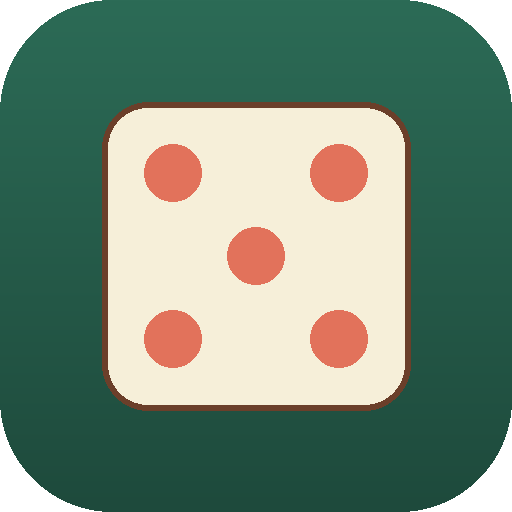
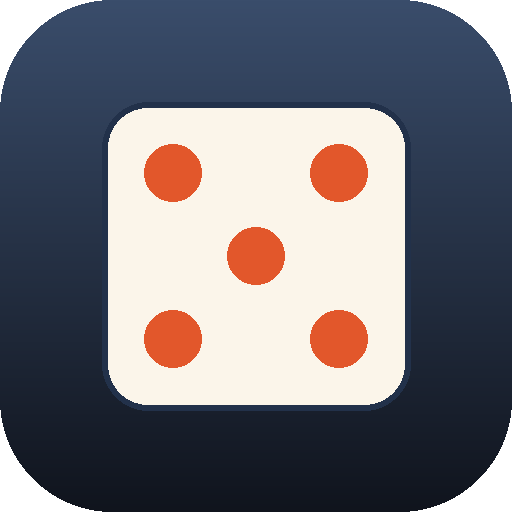
Add files via upload

diff --git a/index.html b/index.html
@@ -4,7 +4,7 @@
 <meta charset="UTF-8">
 <meta name="viewport" content="width=device-width, initial-scale=1, viewport-fit=cover, maximum-scale=1">
 <title>ערב משחקים משפחתי</title>
-<meta name="theme-color" content="#2c6b56">
+<meta name="theme-color" content="#22314a">
 <meta name="mobile-web-app-capable" content="yes">
 <meta name="apple-mobile-web-app-capable" content="yes">
 <meta name="apple-mobile-web-app-status-bar-style" content="black-translucent">
@@ -14,46 +14,53 @@
 <link rel="icon" href="icon-192.png">
 <link rel="preconnect" href="https://fonts.googleapis.com">
 <link rel="preconnect" href="https://fonts.gstatic.com" crossorigin>
-<link href="https://fonts.googleapis.com/css2?family=Suez+One&family=Assistant:wght@400;600;700;800&display=swap" rel="stylesheet">
+<link href="https://fonts.googleapis.com/css2?family=Suez+One&family=Rubik:wght@400;500;600;700;800&display=swap" rel="stylesheet">
 <style>
   :root{
-    --bg:#2c6b56;
-    --bg-deep:#1e4a3c;
-    --surface:#f6efd9;
-    --surface-soft:#efe3c0;
-    --ink:#22201a;
-    --ink-soft:#5c5744;
-    --gold:#d4a73e;
-    --coral:#e2725b;
-    --wood:#6b3f2a;
-    --line:rgba(27,27,20,.16);
-    --shadow:rgba(12,26,21,.35);
+    --bg:#fbf5ea;
+    --bg-panel:#ffffff;
+    --bg-soft:#f2e8d6;
+    --ink:#242838;
+    --ink-soft:#5c6070;
+    --navy:#22314a;
+    --navy-soft:#3a4d6b;
+    --coral:#e2572b;
+    --gold:#d9a441;
+    --ok-bg:#cfead6; --ok-ink:#1f5132;
+    --bad-bg:#f6d2c8; --bad-ink:#7a2415;
+    --line:rgba(34,49,74,.14);
+    --shadow:rgba(34,49,74,.16);
     --tabbar-h:64px;
   }
   @media (prefers-color-scheme: dark){
     :root:not([data-theme="light"]){
-      --bg:#123128; --bg-deep:#0b1e19;
-      --surface:#2b2318; --surface-soft:#352c1d;
-      --ink:#f3ecd8; --ink-soft:#cabf9d;
-      --gold:#e6bd5a; --coral:#ec8b72; --wood:#b0785a;
-      --line:rgba(243,236,216,.18); --shadow:rgba(0,0,0,.55);
+      --bg:#171b26; --bg-panel:#222838; --bg-soft:#2b3244;
+      --ink:#f2ede1; --ink-soft:#b7bdcd;
+      --navy:#10141d; --navy-soft:#242e42;
+      --coral:#f0805f; --gold:#e8c05f;
+      --ok-bg:#204431; --ok-ink:#bfe9cd;
+      --bad-bg:#4a2620; --bad-ink:#f3c3b6;
+      --line:rgba(242,237,225,.14); --shadow:rgba(0,0,0,.5);
     }
   }
   :root[data-theme="dark"]{
-    --bg:#123128; --bg-deep:#0b1e19;
-    --surface:#2b2318; --surface-soft:#352c1d;
-    --ink:#f3ecd8; --ink-soft:#cabf9d;
-    --gold:#e6bd5a; --coral:#ec8b72; --wood:#b0785a;
-    --line:rgba(243,236,216,.18); --shadow:rgba(0,0,0,.55);
+    --bg:#171b26; --bg-panel:#222838; --bg-soft:#2b3244;
+    --ink:#f2ede1; --ink-soft:#b7bdcd;
+    --navy:#10141d; --navy-soft:#242e42;
+    --coral:#f0805f; --gold:#e8c05f;
+    --ok-bg:#204431; --ok-ink:#bfe9cd;
+    --bad-bg:#4a2620; --bad-ink:#f3c3b6;
+    --line:rgba(242,237,225,.14); --shadow:rgba(0,0,0,.5);
   }
   *{box-sizing:border-box;}
   html,body{height:100%;}
   html{scroll-padding-top:env(safe-area-inset-top,0px);}
   body{
     margin:0;
-    font-family:'Assistant',-apple-system,'Segoe UI',sans-serif;
+    font-family:'Rubik',-apple-system,'Segoe UI',sans-serif;
+    font-size:16px;
     color:var(--ink);
-    background:radial-gradient(1200px 800px at 50% -10%, var(--bg) 0%, var(--bg-deep) 75%);
+    background:var(--bg);
     height:100dvh;
     display:flex;
     flex-direction:column;
@@ -65,9 +72,10 @@
     display:flex;
     overflow-x:auto;
     -webkit-overflow-scrolling:touch;
-    gap:4px;
-    padding:calc(env(safe-area-inset-top,0px) + 10px) 10px 8px;
-    background:var(--bg-deep);
+    gap:6px;
+    padding:calc(env(safe-area-inset-top,0px) + 12px) 12px 10px;
+    background:var(--navy);
+    box-shadow:0 4px 14px rgba(0,0,0,.18);
     flex:0 0 auto;
     scrollbar-width:none;
   }
@@ -77,12 +85,12 @@
     display:flex;
     flex-direction:column;
     align-items:center;
-    gap:2px;
-    padding:7px 12px;
-    border-radius:12px;
-    color:var(--surface);
-    opacity:.65;
-    font-size:11.5px;
+    gap:3px;
+    padding:8px 14px;
+    border-radius:14px;
+    color:#eef1f6;
+    opacity:.72;
+    font-size:13px;
     font-weight:700;
     cursor:pointer;
     border:none;
@@ -90,12 +98,13 @@
     white-space:nowrap;
     font-family:inherit;
   }
-  .tab .ic{font-size:20px; line-height:1;}
+  .tab .ic{font-size:21px; line-height:1;}
   .tab.active{
     opacity:1;
-    background:rgba(246,239,217,.14);
+    background:var(--coral);
+    color:#fff;
   }
-  .tab.active .ic{transform:scale(1.08);}
+  .tab.active .ic{transform:scale(1.06);}
 
   /* ---------- Screens ---------- */
   #stage{
@@ -110,7 +119,7 @@
     max-width:640px;
     margin:0 auto;
     width:100%;
-    padding:18px 18px 10px;
+    padding:22px 18px 10px;
     flex:1;
     display:flex;
     flex-direction:column;
@@ -120,105 +129,106 @@
 
   h2.title{
     font-family:'Suez One',serif;
-    font-size:clamp(24px,6.5vw,32px);
-    color:var(--surface);
+    font-size:clamp(26px,7vw,36px);
+    color:var(--navy);
     text-align:center;
-    margin:6px 0 4px;
-    text-shadow:0 2px 0 rgba(0,0,0,.2);
+    margin:6px 0 6px;
   }
   p.sub{
     text-align:center;
-    color:var(--surface);
-    opacity:.85;
-    font-size:14px;
-    margin:0 0 16px;
+    color:var(--ink-soft);
+    font-size:16px;
+    line-height:1.5;
+    margin:0 0 18px;
   }
 
   .panel{
-    background:var(--surface);
+    background:var(--bg-panel);
     border-radius:20px;
-    padding:20px 18px 24px;
-    box-shadow:0 12px 28px var(--shadow);
+    padding:24px 20px 26px;
+    box-shadow:0 10px 26px var(--shadow);
     border:1px solid var(--line);
   }
 
   .btn{
     font-family:inherit;
     font-weight:700;
-    font-size:15px;
+    font-size:16px;
     border:none;
     border-radius:12px;
-    padding:12px 18px;
+    padding:13px 20px;
     cursor:pointer;
-    transition:transform .1s ease, filter .15s ease;
+    transition:transform .1s ease, filter .15s ease, box-shadow .15s ease;
   }
   .btn:active{transform:scale(.96);}
-  .btn.primary{background:var(--gold); color:#2b2318;}
-  .btn.coral{background:var(--coral); color:#2b1410;}
-  .btn.wood{background:var(--wood); color:#fbf3e3;}
-  .btn.outline{background:transparent; border:1.5px solid var(--line); color:var(--ink);}
-  .btn:hover{filter:brightness(1.06);}
-  .btn:disabled{opacity:.45; cursor:default;}
+  .btn.primary{background:var(--coral); color:#fff; box-shadow:0 6px 14px rgba(226,87,43,.35);}
+  .btn.coral{background:var(--coral); color:#fff; box-shadow:0 6px 14px rgba(226,87,43,.35);}
+  .btn.wood{background:var(--navy); color:#fff; box-shadow:0 6px 14px rgba(34,49,74,.35);}
+  .btn.outline{background:transparent; border:1.5px solid var(--navy); color:var(--navy);}
+  .btn:hover{filter:brightness(1.07);}
+  .btn:disabled{opacity:.4; cursor:default; box-shadow:none;}
   .btn.block{width:100%;}
-  .btn.lg{font-size:17px; padding:15px 20px;}
+  .btn.lg{font-size:18px; padding:16px 22px;}
 
-  .chiprow{display:flex; flex-wrap:wrap; gap:8px; justify-content:center; margin-bottom:14px;}
+  .chiprow{display:flex; flex-wrap:wrap; gap:9px; justify-content:center; margin-bottom:16px;}
   .chip{
-    padding:8px 14px; border-radius:999px; border:1.5px solid var(--line);
-    background:var(--surface-soft); color:var(--ink); font-size:13.5px; font-weight:600; cursor:pointer;
+    padding:9px 16px; border-radius:999px; border:1.5px solid var(--line);
+    background:var(--bg-soft); color:var(--ink); font-size:14.5px; font-weight:600; cursor:pointer;
   }
   .chip.selected{background:var(--gold); border-color:var(--gold); color:#2b2318;}
 
   .big-word{
     font-family:'Suez One',serif;
-    font-size:clamp(28px,9vw,46px);
+    font-size:clamp(30px,9.5vw,50px);
     text-align:center;
-    margin:10px 0;
+    margin:12px 0;
     min-height:1.3em;
     color:var(--ink);
+    line-height:1.25;
   }
   .timer{
-    text-align:center; font-size:36px; font-weight:800; color:var(--coral);
-    margin-bottom:4px; font-variant-numeric:tabular-nums;
+    text-align:center; font-size:40px; font-weight:800; color:var(--coral);
+    margin-bottom:6px; font-variant-numeric:tabular-nums;
   }
-  .scoreline{text-align:center; color:var(--ink-soft); font-size:14px; margin-bottom:8px;}
-  .row-actions{display:flex; gap:12px; justify-content:center; margin-top:16px; flex-wrap:wrap;}
+  .scoreline{text-align:center; color:var(--ink-soft); font-size:15px; font-weight:600; margin-bottom:10px;}
+  .row-actions{display:flex; gap:12px; justify-content:center; margin-top:18px; flex-wrap:wrap;}
   .center{text-align:center;}
 
   .qopt{
-    display:block; width:100%; text-align:right; background:var(--surface-soft);
-    border:1.5px solid var(--line); border-radius:12px; padding:13px 16px; margin-bottom:10px;
-    font-size:15.5px; font-family:inherit; color:var(--ink); cursor:pointer;
+    display:block; width:100%; text-align:right; background:var(--bg-soft);
+    border:1.5px solid var(--line); border-radius:12px; padding:14px 16px; margin-bottom:10px;
+    font-size:16.5px; font-weight:600; font-family:inherit; color:var(--ink); cursor:pointer;
   }
-  .qopt.correct{background:#8bbf8f; border-color:#8bbf8f; color:#12271a;}
-  .qopt.wrong{background:#e79a8d; border-color:#e79a8d; color:#3a130b;}
+  .qopt.correct{background:var(--ok-bg); border-color:var(--ok-bg); color:var(--ok-ink);}
+  .qopt.wrong{background:var(--bad-bg); border-color:var(--bad-bg); color:var(--bad-ink);}
   .qopt:disabled{cursor:default;}
 
   .cats-list{
-    display:grid; grid-template-columns:1fr 1fr; gap:8px 16px; margin:14px 0 6px;
+    display:grid; grid-template-columns:1fr 1fr; gap:10px 16px; margin:16px 0 6px;
     list-style:none; padding:0;
   }
-  .cats-list li{background:var(--surface-soft); border-radius:10px; padding:9px 12px; font-size:14.5px; text-align:center;}
+  .cats-list li{background:var(--bg-soft); border-radius:10px; padding:11px 12px; font-size:15.5px; font-weight:600; text-align:center;}
 
   .letter-badge{
-    width:80px; height:80px; border-radius:50%; background:var(--coral); color:#2b1410;
-    font-family:'Suez One',serif; font-size:38px; display:flex; align-items:center; justify-content:center;
-    margin:0 auto 10px; box-shadow:0 6px 14px var(--shadow);
+    width:86px; height:86px; border-radius:50%; background:var(--coral); color:#fff;
+    font-family:'Suez One',serif; font-size:42px; display:flex; align-items:center; justify-content:center;
+    margin:0 auto 12px; box-shadow:0 8px 18px rgba(226,87,43,.4);
   }
 
   .field{
-    width:100%; padding:11px 13px; border-radius:10px; border:1.5px solid var(--line);
-    font-size:14.5px; font-family:inherit; margin-bottom:10px; background:var(--surface-soft); color:var(--ink);
+    width:100%; padding:13px 14px; border-radius:10px; border:1.5px solid var(--line);
+    font-size:15.5px; font-family:inherit; margin-bottom:12px; background:var(--bg-soft); color:var(--ink);
   }
-  .field-label{font-size:13px; font-weight:700; color:var(--ink-soft); margin:0 2px 4px;}
+  .field:focus{outline:2px solid var(--coral); outline-offset:1px;}
+  .field-label{font-size:14px; font-weight:700; color:var(--ink-soft); margin:0 2px 5px;}
 
   .story-output{
-    font-size:17px; line-height:1.9; text-align:right; margin-top:8px;
+    font-size:18px; line-height:1.9; text-align:right; margin-top:8px; color:var(--ink);
   }
   .story-output b{color:var(--coral);}
 
   footer.credit{
-    text-align:center; color:var(--surface); opacity:.5; font-size:11.5px; padding:6px 0 4px;
+    text-align:center; color:var(--ink-soft); opacity:.8; font-size:12.5px; padding:8px 0 6px;
   }
   ::selection{background:var(--gold); color:#2b2318;}
 </style>
@@ -305,7 +315,7 @@
       </div>
     </div>
     <div class="screen-inner top-align" id="triviaPlayWrap" style="display:none;">
-      <p class="scoreline" id="triviaProgress" style="color:var(--surface); opacity:.85;"></p>
+      <p class="scoreline" id="triviaProgress" style="color:var(--ink-soft);"></p>
       <div class="panel">
         <h2 style="font-family:'Suez One',serif; font-size:20px; margin:0 0 14px; text-align:center;" id="triviaQ">שאלה</h2>
         <div id="triviaOpts"></div>
